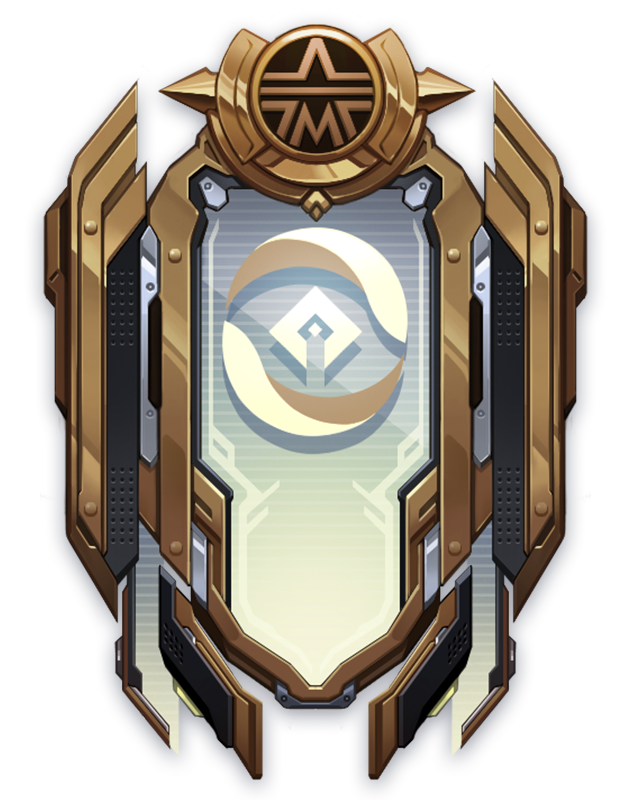
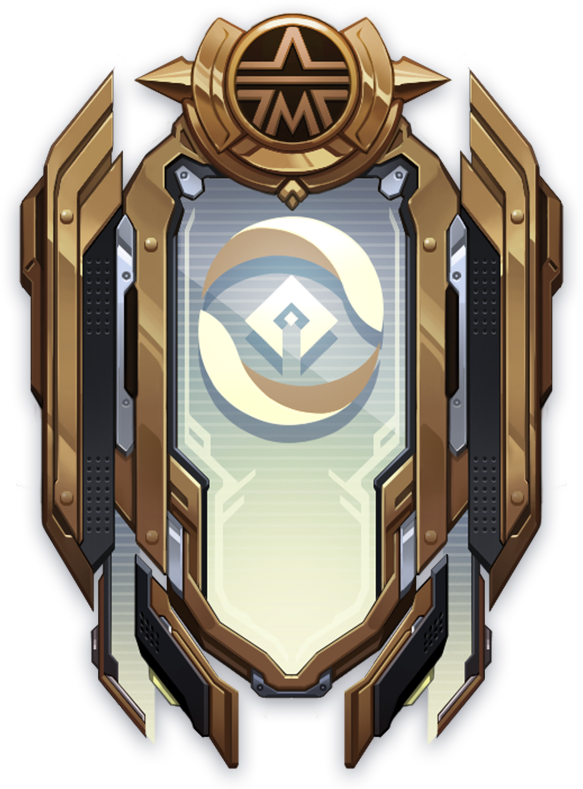
"EGF-11: 웹폰트 설정, 랭크 이미지 수정, 간단매치프로필 뷰 구현(~ing)"

diff --git a/eg-front/src/components/MatchProfileSimple.js b/eg-front/src/components/MatchProfileSimple.js
@@ -1,29 +1,36 @@
 import React from 'react';
 import normal from '../images/Rank Tier/09_Normal.png';
-import { BiBookAlt, BiBookHeart, BiCaretDown, BiCaretUp, BiCheck } from 'react-icons/bi';
+// import normal from '../images/Rank Tier/08_Immortal.png';
+import { BiCaretDown, BiCaretUp, BiCheck } from 'react-icons/bi';
+import styles from '../styles/MatchProfileSimple.moduel.scss';
+import commonObject from '../styles/CommonObject.scss';
+import classNames from 'classnames/bind';
+
+const cx = classNames.bind(styles, commonObject);
 
 function MatchProfileSimple({gameNickname}) {
     return(
-        <section>
+        <section className={cx('MatchProfileSimple')}>
             <article>
                 <section>
-                    <img src={normal} alt='노말' />
+                    <img src={normal} className={cx('img-rank')} alt='노말' />
                     <span>일반</span>
                 </section>
                 <section>
-                    <span>{gameNickname}</span>
+                    <span className={cx('span-nickname')}>{gameNickname}</span>
                     <div>
-                        <button>전적 갱신</button>
-                        <button><BiBookAlt />즐겨찾기</button>
+                        <button className={cx('btn', 'yellow')}>전적 갱신</button>
+                        <button className={cx('btn', 'yellow')}>즐겨찾기</button>
                     </div>
-                    <span>최근 업데이트 : 27분 전</span>
+                    <span className={cx('span-time')}>최근 업데이트 : 27분 전</span>
                 </section>
-                <ul>
-                    <li>일반(고른거 뜸)<BiCaretDown/></li>
-                    <li><BiCheck/>일반</li>
-                    <li>시즌1</li>
-                </ul>
-                <input/>
+                <section>
+                    <span>일반<BiCaretDown/></span>
+                    <ul>
+                        <li><BiCheck/>일반</li>
+                        <li><BiCheck/>시즌1</li>
+                    </ul>
+                </section>
             </article>
         </section>
     );

diff --git a/eg-front/src/styles/MatchProfileSimple.moduel.scss b/eg-front/src/styles/MatchProfileSimple.moduel.scss
@@ -1,0 +1,89 @@
+@import 'colors';
+
+.MatchProfileSimple{
+  background: $mainOrange-light;
+  height: 100vh;
+  article{
+    margin: 0 auto;
+    background: $mainWhite;
+    width: 1200px;
+    display: flex;
+  }
+  section{
+    padding: 2em 1em 2em 1em;
+    box-sizing: border-box;
+    &:nth-child(1){
+      flex-basis: 10%;
+      padding-left: 2em;
+      text-align: center;
+      font-weight: 700;
+      span{
+        border: solid $mainOrange;
+        border-width: 1px 0px;
+        padding: 6px 0px;
+        font-size: 13px;
+      }
+    }
+    &:nth-child(2){
+      flex-basis: 75%;
+      padding-top: 4em;
+      .span-nickname{
+        display: block;
+        margin-bottom: 30px;
+        font-size: 20px;
+        font-weight: 800;
+      }
+      button{
+        width: 100px;
+        margin-bottom: 10px;
+        padding: 10px;
+        font-size: 15px;
+      }
+      button + button{
+        margin-left: 5px;
+      }
+      .span-time{
+        font-size: 13px;
+        color: gray;
+      }
+    }
+    &:nth-child(3){
+      flex-basis: 15%;
+      padding-top: 2em;
+      padding-right: 2em;
+      font-weight: 700;
+
+      span{
+        display: block;
+        border: solid $mainOrange;
+        border-width: 2px 2px 0px 2px;
+        padding: 8px;
+        font-size: 15px;
+        text-align: center;
+
+        svg{
+          margin-left: 5px;
+        }
+      }
+      li+li{
+        border-top-width: 0px;
+      }
+
+      li{
+        font-weight: 400;
+        border: 2px solid $mainOrange;
+        padding: 8px;
+        font-size: 13px;
+
+        svg{
+          margin-right: 2px;
+        }
+      }
+    }
+  }
+  .img-rank{
+    width: 100px;
+    margin: 0 auto;
+    margin-bottom: 15px;
+  }
+}

diff --git a/eg-front/src/App.scss b/eg-front/src/App.scss
@@ -1,6 +1,11 @@
-@import url('https://fonts.googleapis.com/css2?family=Nanum+Gothic&display=swap');
+@import url('https://fonts.googleapis.com/css2?family=Nanum+Gothic:wght@400;700;800&display=swap');
+
+/* typography */
+*{
+  font-family: 'Nanum Gothic', '나눔고딕', sans-serif;
+}
+
 body{
-    font-family: 'Nanum Gothic', sans-serif;
     margin: 0;
     padding: 0;
     background: #fcfcfc;
@@ -12,7 +17,6 @@ body{
     }
 
     button{
-      font-family: 'Nanum Gothic', sans-serif;
       border: 0px;
       cursor: pointer;
       outline-style: none;
@@ -29,6 +33,7 @@ body{
 
    ul{
      padding: 0;
+     margin: 0;
      list-style-type: none;
    }
 

diff --git a/eg-front/src/styles/PleaseVerifyEmailPage.module.scss b/eg-front/src/styles/PleaseVerifyEmailPage.module.scss
@@ -1,4 +1,12 @@
 @import 'colors';
+@font-face {
+  font-family: 'yg-jalnan';
+  src: url('https://cdn.jsdelivr.net/gh/projectnoonnu/noonfonts_four@1.2/JalnanOTF00.woff')
+  format('woff');
+  font-weight: normal;
+  font-style: normal;
+}
+
 .Wrapper{
   height: 100vh;
   background: $mainOrange-light;
@@ -33,7 +41,7 @@
       text-align: center;
 
       &.fail{
-        font-family: "여기어때 잘난체";
+        font-family: '여기어때 잘난체', 'yg-jalnan', sans-serif;
         color: $mainOrange;
         font-weight: bolder;
         font-size: 70px;

diff --git a/eg-front/src/components/MatchProfile.js b/eg-front/src/components/MatchProfile.js
@@ -2,7 +2,7 @@ import React from 'react';
 
 function MatchProfile() {
     return(
-        <div>상세 매치 프로필</div>
+        <div><b>상세 매치 프로필</b></div>
     )
 }
 export default MatchProfile;

diff --git a/eg-front/src/styles/RegisterForm.module.scss b/eg-front/src/styles/RegisterForm.module.scss
@@ -36,6 +36,7 @@
     font-size: 13px;
     color: rgba(249, 141, 43, 0.7);
     line-height: 140%;
+    text-align: justify;
   }
 
   .TextBox{

diff --git a/eg-front/src/styles/_colors.scss b/eg-front/src/styles/_colors.scss
@@ -2,3 +2,4 @@
   $mainYellow: #ffd144;
   $mainOrange: #f98d2b;
   $mainOrange-light: rgba(255, 208, 68, 0.2);
+  $mainWhite: #fcfcfc;
